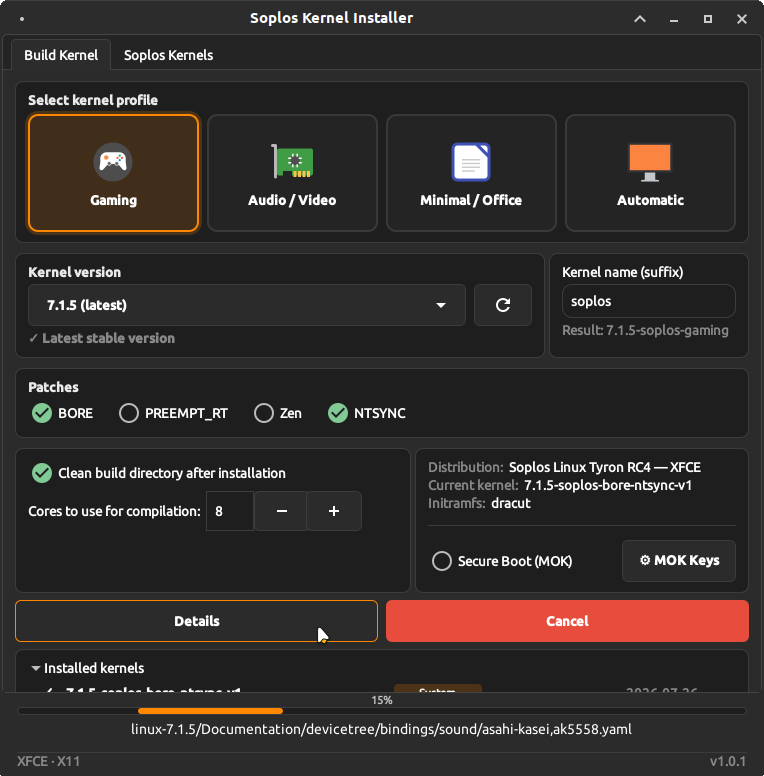
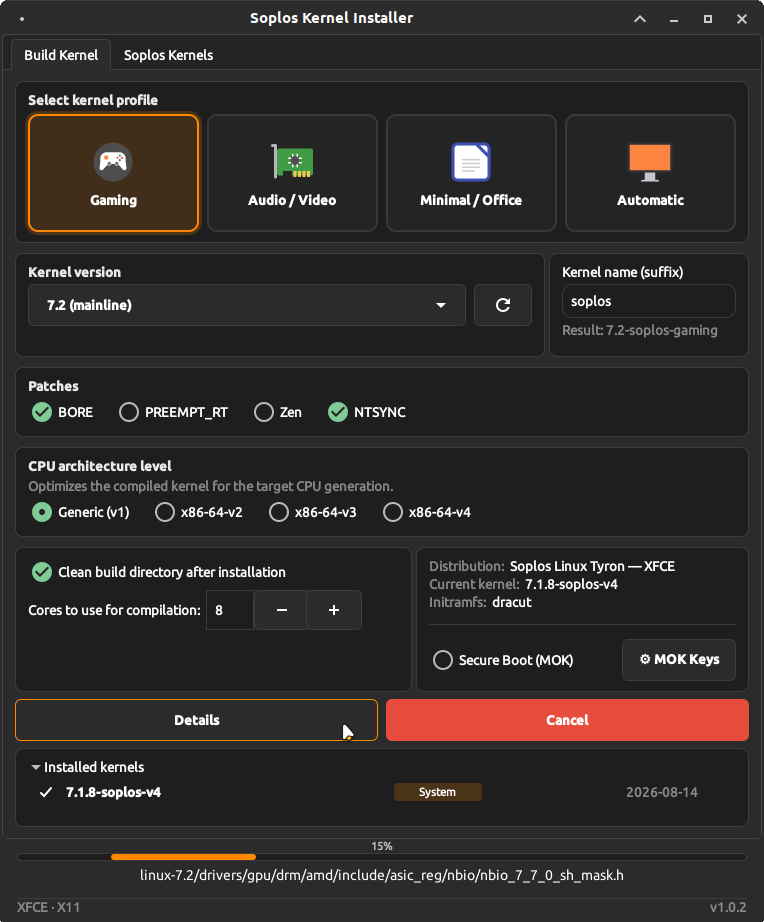
Update kernel installer screenshots, translations, and release pages

diff --git a/js/lang/lang-wiki-ru.js b/js/lang/lang-wiki-ru.js
@@ -5183,6 +5183,15 @@ Object.assign(window.LANG_RU, {
     "ki-rel-hero-title": "Soplos Kernel Installer",
     "ki-rel-hero-subtitle": "Компилятор пользовательских ядер Linux и установщик предсобранных ядер для Soplos Linux — компилируйте собственное ядро с патчами BORE, Zen, NTSYNC и PREEMPT_RT или устанавливайте готовые ядра Soplos из официального репозитория.",
 
+    "ki-rel-102r2-title": "1.0.2-2 — Август 2026",
+    "ki-rel-102r2-subtitle": "Селектор march расширен на все профили; выбор ядер и возобновление добавлены в пакетную сборку Stock; уровень march теперь отображается в имени ядра для профилей не-Stock; исправлена подпись кнопки пакетной сборки.",
+    "ki-rel-102r2-added-li1": "<strong>Селектор march (psABI x86-64) доступен для всех профилей:</strong> сборки Gaming, Audio/Video, Minimal/Office и Automatic теперь тоже могут выбирать V1–V4, вместо того чтобы всегда собирать с настройками компилятора по умолчанию.",
+    "ki-rel-102r2-added-li2": "<strong>Выбор ядер для пакетной сборки Stock:</strong> диалог «Выбрать ядра...» перечисляет все 26 задач очереди выпуска с флажками, вместо того чтобы всегда собирать всё или ничего.",
+    "ki-rel-102r2-added-li3": "<strong>Возобновление для пакетной сборки Stock:</strong> флажок пропускает любое ядро, метапакет <code>.deb</code> которого уже существует в папке назначения, чтобы прерванная на полпути очередь могла продолжить с того места, где остановилась, вместо того чтобы перестраивать всё с V1.",
+    "ki-rel-102r2-fixed-li1": "<strong>Селектор march никогда не появлялся для профиля по умолчанию при запуске:</strong> первая радиокнопка <code>ProfileSelector</code> уже имеет <code>active=True</code> при создании группы, поэтому её собственный вызов <code>set_active(True)</code> был no-op и никогда не испускал <code>toggled</code> — <code>profile-changed</code> (и всё, что его слушает, включая видимость селектора march) срабатывало только когда пользователь вручную переключал профили, но никогда для профиля, отображаемого при запуске. Теперь явно синхронизируется один раз после построения окна.",
+    "ki-rel-102r2-fixed-li2": "<strong>Сборка V3/V4 вне режима Stock выглядела идентично сборке V1:</strong> селектор march применялся к сборке, но никогда не отражался в имени ядра для профилей не-Stock. Уровень march теперь добавляется к имени (и его предварительному просмотру в реальном времени), если он не является v1 по умолчанию.",
+    "ki-rel-102r2-fixed-li3": "<strong>Кнопка «Собрать все 26 ядер» пакетной сборки сохраняла подпись после сужения выбора:</strong> всегда показывала «26» вне зависимости от того, сколько ядер было выбрано. Теперь показывает «Собрать N выбранных ядер» и говорит «все 26» только когда выбраны все задачи.",
+
     "ki-rel-102r1-title": "1.0.2-1 — Август 2026",
     "ki-rel-102r1-subtitle": "Исправление сбоя сборки NVIDIA DKMS на ядре 7.2+: <code>nvidia/os-interface.c</code> вызывает <code>strncpy()</code> без включения <code>&lt;linux/string.h&gt;</code> — транзитивное включение, исчезнувшее в ядре 7.2. Недостающий заголовок теперь автоматически патчится вместе с существующим fix'ом блокировки VMA.",
     "ki-rel-102r1-fixed-li1": "<strong>Сбой сборки NVIDIA DKMS на ядре 7.2+:</strong> <code>nvidia/os-interface.c</code> вызывает <code>strncpy()</code> без включения <code>&lt;linux/string.h&gt;</code>, полагаясь на то, что другой заголовочный файл ядра транзитивно предоставит объявление. Это транзитивное включение исчезло начиная с ядра 7.2, а GCC рассматривает неявное объявление функции как неисправимую ошибку, поэтому сборки DKMS завершались полным отказом (<code>implicit declaration of function 'strncpy'</code>). Был добавлен новый встроенный патч совместимости (<code>NV_STRING_H_PATCH</code>), добавляющий недостающий заголовок, применяемый автоматически вместе с существующим fix'ом блокировки VMA — тот же механизм, тот же guard идемпотентности, независимая проблема (другой файл, другой API, другая граница ядра). Отражено в автономном репозитории <code>nvidia-patches</code> как Fix 4.",

diff --git a/js/lang/lang-wiki-fr.js b/js/lang/lang-wiki-fr.js
@@ -5173,6 +5173,15 @@ Object.assign(window.LANG_FR, {
     "ki-rel-hero-title": "Soplos Kernel Installer",
     "ki-rel-hero-subtitle": "Compilateur de noyaux Linux personnalisés et installateur de noyaux précompilés pour Soplos Linux — compilez votre propre noyau avec les patches BORE, Zen, NTSYNC et PREEMPT_RT, ou installez des noyaux Soplos prêts à l'emploi depuis le dépôt officiel.",
 
+    "ki-rel-102r2-title": "1.0.2-2 — Août 2026",
+    "ki-rel-102r2-subtitle": "Sélecteur march étendu à tous les profils ; sélection des noyaux et reprise ajoutées à la compilation par lot Stock ; le niveau march est désormais reflété dans le nom du noyau pour les profils non-Stock ; libellé du bouton de lot corrigé.",
+    "ki-rel-102r2-added-li1": "<strong>Sélecteur march (psABI x86-64) disponible pour tous les profils :</strong> les compilations Gaming, Audio/Vidéo, Minimal/Bureau et Automatique peuvent désormais choisir V1–V4, au lieu de toujours compiler avec la valeur par défaut du compilateur.",
+    "ki-rel-102r2-added-li2": "<strong>Sélection des noyaux pour la compilation par lot Stock :</strong> une boîte de dialogue «&nbsp;Sélectionner les noyaux...&nbsp;» liste les 26 tâches de la file de publication avec des cases à cocher, au lieu de toujours tout compiler ou rien.",
+    "ki-rel-102r2-added-li3": "<strong>Reprise pour la compilation par lot Stock :</strong> une case à cocher ignore tout noyau dont le métapaquet <code>.deb</code> existe déjà dans le dossier de destination, de sorte qu'une file interrompue en cours peut reprendre là où elle s'est arrêtée au lieu de tout recompiler depuis V1.",
+    "ki-rel-102r2-fixed-li1": "<strong>Le sélecteur march n'apparaissait jamais pour le profil par défaut au démarrage :</strong> le premier bouton radio de <code>ProfileSelector</code> est déjà <code>active=True</code> à la création du groupe, donc son propre appel à <code>set_active(True)</code> était un no-op et n'émettait jamais <code>toggled</code> — <code>profile-changed</code> (et tout ce qui l'écoute, visibilité du sélecteur march incluse) ne se déclenchait que lorsque l'utilisateur changeait de profil manuellement, jamais pour le profil affiché au lancement. Synchronisé explicitement une fois après la construction de la fenêtre.",
+    "ki-rel-102r2-fixed-li2": "<strong>Une compilation V3/V4 hors mode Stock était identique à une V1 :</strong> le sélecteur march était appliqué à la compilation mais n'était jamais répercuté dans le nom du noyau pour les profils non-Stock. Le niveau march est maintenant ajouté au nom (et à son aperçu en direct) quand il n'est pas le v1 par défaut.",
+    "ki-rel-102r2-fixed-li3": "<strong>Le bouton «&nbsp;Compiler les 26 noyaux&nbsp;» du lot conservait son libellé après réduction de la sélection :</strong> il affichait toujours «&nbsp;26&nbsp;» quel que soit le nombre de noyaux cochés. Il affiche désormais «&nbsp;Compiler N noyaux sélectionnés&nbsp;» et ne dit «&nbsp;tous les 26&nbsp;» que lorsque tous les travaux sont sélectionnés.",
+
     "ki-rel-102r1-title": "1.0.2-1 — Août 2026",
     "ki-rel-102r1-subtitle": "Correction de l'échec de compilation NVIDIA DKMS sur le noyau 7.2+ : <code>nvidia/os-interface.c</code> appelle <code>strncpy()</code> sans inclure <code>&lt;linux/string.h&gt;</code> — une inclusion transitive disparue sur le noyau 7.2. L'en-tête manquant est maintenant appliqué automatiquement en même temps que le correctif de verrouillage VMA existant.",
     "ki-rel-102r1-fixed-li1": "<strong>Échec de compilation NVIDIA DKMS sur le noyau 7.2+ :</strong> <code>nvidia/os-interface.c</code> appelle <code>strncpy()</code> sans inclure <code>&lt;linux/string.h&gt;</code>, en comptant sur un autre en-tête du noyau pour fournir la déclaration transitivement. Cette inclusion transitive a disparu à partir du noyau 7.2, et GCC traite une déclaration de fonction implicite comme une erreur définitive, si bien que les compilations DKMS échouaient complètement (<code>implicit declaration of function 'strncpy'</code>). Un nouveau patch de compatibilité embarqué (<code>NV_STRING_H_PATCH</code>) ajoutant l'en-tête manquant a été ajouté, appliqué automatiquement aux côtés du correctif de verrouillage VMA existant — même mécanisme, même garde d'idempotence, problème différent (fichier différent, API différente, limite de noyau différente). Reproduit dans le dépôt standalone <code>nvidia-patches</code> sous le Fix 4.",

diff --git a/js/lang/lang-wiki-es.js b/js/lang/lang-wiki-es.js
@@ -5184,6 +5184,15 @@ Object.assign(window.LANG_ES, {
     "ki-rel-hero-title": "Soplos Kernel Installer",
     "ki-rel-hero-subtitle": "Compilador de kernels Linux personalizados e instalador de kernels precompilados para Soplos Linux — compila tu propio kernel con parches BORE, Zen, NTSYNC y PREEMPT_RT, o instala kernels Soplos listos para usar desde el repositorio oficial.",
 
+    "ki-rel-102r2-title": "1.0.2-2 — Agosto 2026",
+    "ki-rel-102r2-subtitle": "Selector de march extendido a todos los perfiles; selección de kernels y reanudación añadidas a la compilación por lotes de Stock; el nivel de march ahora se refleja en el nombre del kernel para perfiles que no son Stock; etiqueta del botón de lote corregida.",
+    "ki-rel-102r2-added-li1": "<strong>Selector de march (psABI x86-64) disponible para todos los perfiles:</strong> Las compilaciones de Gaming, Audio/Vídeo, Minimal/Office y Automático ahora también pueden elegir V1–V4, en lugar de compilar siempre con el valor predeterminado del compilador.",
+    "ki-rel-102r2-added-li2": "<strong>Selección de kernels para la compilación por lotes de Stock:</strong> un diálogo «Seleccionar kernels...» muestra los 26 trabajos de la cola de lanzamiento con casillas de verificación, en lugar de compilar siempre todos o ninguno.",
+    "ki-rel-102r2-added-li3": "<strong>Reanudación para la compilación por lotes de Stock:</strong> una casilla omite cualquier kernel cuyo metapaquete <code>.deb</code> ya exista en la carpeta de destino, de modo que una cola que falló a mitad puede continuar desde donde se detuvo en lugar de recompilar todo desde V1.",
+    "ki-rel-102r2-fixed-li1": "<strong>El selector de march nunca aparecía para el perfil predeterminado al arrancar:</strong> el primer botón de radio de <code>ProfileSelector</code> ya tiene <code>active=True</code> cuando se crea el grupo, por lo que su propia llamada a <code>set_active(True)</code> era un no-op y nunca emitía <code>toggled</code> — <code>profile-changed</code> (y todo lo que lo escucha, incluida la visibilidad del selector de march) solo se disparaba cuando el usuario cambiaba de perfil manualmente, nunca para el perfil mostrado al arrancar. Se sincroniza explícitamente una vez después de que la ventana se construye.",
+    "ki-rel-102r2-fixed-li2": "<strong>Una compilación V3/V4 fuera del modo Stock era idéntica a una V1:</strong> el selector de march se aplicaba a la compilación pero nunca se reflejaba en el nombre del kernel para perfiles que no son Stock. El nivel de march ahora se añade al nombre (y a su vista previa en vivo) cuando no es el v1 predeterminado.",
+    "ki-rel-102r2-fixed-li3": "<strong>El botón «Compilar los 26 kernels» del lote mantenía su etiqueta tras reducir la selección:</strong> siempre mostraba «26» independientemente de cuántos kernels estuvieran marcados. Ahora muestra «Compilar N kernels seleccionados» y solo dice «todos los 26» cuando se seleccionan todos los trabajos.",
+
     "ki-rel-102r1-title": "1.0.2-1 — Agosto 2026",
     "ki-rel-102r1-subtitle": "Corrección del fallo de compilación de NVIDIA DKMS en el kernel 7.2+: <code>nvidia/os-interface.c</code> llama a <code>strncpy()</code> sin incluir <code>&lt;linux/string.h&gt;</code> — una inclusión transitiva que desapareció en el kernel 7.2. La cabecera que faltaba se parchea ahora automáticamente junto al fix existente de bloqueo de VMA.",
     "ki-rel-102r1-fixed-li1": "<strong>Fallo de compilación de NVIDIA DKMS en el kernel 7.2+:</strong> <code>nvidia/os-interface.c</code> llama a <code>strncpy()</code> sin incluir <code>&lt;linux/string.h&gt;</code>, dependiendo de que alguna otra cabecera del kernel proporcionara la declaración transitivamente. Esa inclusión transitiva desapareció a partir del kernel 7.2 y GCC trata una declaración implícita de función como un error definitivo, por lo que las compilaciones de DKMS fallaban por completo (<code>implicit declaration of function 'strncpy'</code>). Se ha añadido un nuevo parche de compatibilidad embebido (<code>NV_STRING_H_PATCH</code>) que agrega la cabecera que faltaba, aplicado automáticamente junto al fix existente de bloqueo de VMA — mismo mecanismo, mismo guard de idempotencia, problema diferente (archivo diferente, API diferente, límite de kernel diferente). Reflejado en el repositorio independiente <code>nvidia-patches</code> como Fix 4.",

diff --git a/js/lang/lang-wiki-de.js b/js/lang/lang-wiki-de.js
@@ -5181,6 +5181,15 @@ Object.assign(window.LANG_DE, {
     "ki-rel-hero-title": "Soplos Kernel Installer",
     "ki-rel-hero-subtitle": "Benutzerdefinierter Linux-Kernel-Compiler und vorkompilierter Kernel-Installer für Soplos Linux — kompilieren Sie Ihren eigenen Kernel mit BORE-, Zen-, NTSYNC- und PREEMPT_RT-Patches oder installieren Sie gebrauchsfertige Soplos-Kernel aus dem offiziellen Repository.",
 
+    "ki-rel-102r2-title": "1.0.2-2 — August 2026",
+    "ki-rel-102r2-subtitle": "March-Selektor auf alle Profile erweitert; Kernelauswahl und Fortsetzung zum Stock-Batch-Build hinzugefügt; March-Level wird jetzt im Kernel-Namen für Nicht-Stock-Profile angezeigt; Beschriftung der Batch-Schaltfläche korrigiert.",
+    "ki-rel-102r2-added-li1": "<strong>March-Selektor (x86-64-psABI) für alle Profile verfügbar:</strong> Gaming-, Audio/Video-, Minimal/Office- und Automatik-Builds können jetzt ebenfalls V1–V4 wählen, anstatt immer mit dem Compiler-Standard zu bauen.",
+    "ki-rel-102r2-added-li2": "<strong>Kernelauswahl für den Stock-Batch-Build:</strong> ein Dialog «Kernel auswählen...» listet alle 26 Aufgaben der Release-Warteschlange mit Kontrollkästchen auf, anstatt immer alle oder keine zu bauen.",
+    "ki-rel-102r2-added-li3": "<strong>Fortsetzung für den Stock-Batch-Build:</strong> ein Kontrollkästchen überspringt jeden Kernel, dessen Metapaket-<code>.deb</code> bereits im Zielordner vorhanden ist, sodass eine halb abgebrochene Warteschlange dort weitermachen kann, wo sie aufgehört hat, anstatt alles ab V1 neu zu bauen.",
+    "ki-rel-102r2-fixed-li1": "<strong>Der March-Selektor erschien beim Start nie für das Standard-Profil:</strong> der erste Radio-Button von <code>ProfileSelector</code> ist beim Erstellen der Gruppe bereits <code>active=True</code>, sodass der eigene <code>set_active(True)</code>-Aufruf ein No-op war und nie <code>toggled</code> emittierte — <code>profile-changed</code> (und alles, was darauf hört, einschließlich der Sichtbarkeit des March-Selektors) wurde nur ausgelöst, wenn der Nutzer das Profil manuell wechselte, nie für das beim Start angezeigte Profil. Wird jetzt einmal explizit nach dem Aufbau des Fensters synchronisiert.",
+    "ki-rel-102r2-fixed-li2": "<strong>Ein V3/V4-Build außerhalb des Stock-Modus war mit einem V1-Build identisch:</strong> der March-Selektor wurde auf den Build angewendet, aber nie im Kernel-Namen für Nicht-Stock-Profile widergespiegelt. Das March-Level wird jetzt an den Namen (und dessen Live-Vorschau) angehängt, wenn es nicht das Standard-v1 ist.",
+    "ki-rel-102r2-fixed-li3": "<strong>Der Batch-Button «Alle 26 Kernel bauen» behielt seine Beschriftung nach dem Einschränken der Auswahl:</strong> er zeigte immer «26», unabhängig davon, wie viele Kernel tatsächlich ausgewählt waren. Zeigt jetzt «N ausgewählte Kernel bauen» und sagt nur «alle 26», wenn alle Aufgaben ausgewählt sind.",
+
     "ki-rel-102r1-title": "1.0.2-1 — August 2026",
     "ki-rel-102r1-subtitle": "Behebung des NVIDIA-DKMS-Kompilierungsfehlers auf Kernel 7.2+: <code>nvidia/os-interface.c</code> ruft <code>strncpy()</code> ohne Einbindung von <code>&lt;linux/string.h&gt;</code> auf — ein transitiver Include, der auf Kernel 7.2 verschwunden ist. Der fehlende Header wird nun automatisch zusammen mit dem bestehenden VMA-Locking-Fix eingespielt.",
     "ki-rel-102r1-fixed-li1": "<strong>NVIDIA-DKMS-Kompilierungsfehler auf Kernel 7.2+:</strong> <code>nvidia/os-interface.c</code> ruft <code>strncpy()</code> ohne Einbindung von <code>&lt;linux/string.h&gt;</code> auf und verlässt sich darauf, dass ein anderer Kernel-Header die Deklaration transitiv bereitstellt. Dieser transitive Include verschwand ab Kernel 7.2, und GCC behandelt eine implizite Funktionsdeklaration als harten Fehler, sodass DKMS-Builds vollständig scheiterten (<code>implicit declaration of function 'strncpy'</code>). Ein neuer eingebetteter Kompatibilitätspatch (<code>NV_STRING_H_PATCH</code>), der den fehlenden Header hinzufügt, wurde eingefügt und wird automatisch zusammen mit dem bestehenden VMA-Locking-Fix angewendet — gleicher Mechanismus, gleicher Idempotenz-Guard, unabhängiges Problem (andere Datei, andere API, andere Kernel-Grenze). Im eigenständigen <code>nvidia-patches</code>-Repository als Fix 4 gespiegelt.",

diff --git a/wiki/releases/soplos-kernel-installer/index.html b/wiki/releases/soplos-kernel-installer/index.html
@@ -127,6 +127,7 @@
                     <aside class="toc">
                         <h3 id="rel-toc-title">Versions</h3>
                         <ul>
+                            <li><a href="#v102r2" class="toc-link">1.0.2-2 <span class="toc-date">— 2026-08-18</span></a></li>
                             <li><a href="#v102r1" class="toc-link">1.0.2-1 <span class="toc-date">— 2026-08-17</span></a></li>
                             <li><a href="#v102" class="toc-link">1.0.2 <span class="toc-date">— 2026-08-17</span></a></li>
                             <li><a href="#v101r9" class="toc-link">1.0.1-9 <span class="toc-date">— 2026-08-13</span></a></li>
@@ -148,6 +149,32 @@
                     </aside>
 
                     <article class="main-content">
+
+                        <!-- 1.0.2-2 -->
+                        <section id="v102r2" class="content-section">
+                            <h2><i class="fas fa-tag"></i> <span id="ki-rel-102r2-title">1.0.2-2 — August 2026</span></h2>
+                            <p id="ki-rel-102r2-subtitle" class="lead">March selector extended to all profiles; kernel selection and resume added to the Stock batch build; march level now reflected in the kernel name for non-Stock profiles; batch button label fixed.</p>
+
+                            <div class="subsection-header">
+                                <h3><i class="fas fa-plus-circle"></i> <span data-i18n="rel-label-added">Added</span></h3>
+                                <div class="accent-hr"></div>
+                            </div>
+                            <ul>
+                                <li id="ki-rel-102r2-added-li1"><strong>March (x86-64 psABI) selector available for every profile:</strong> Gaming, Audio/Video, Minimal/Office and Automatic builds can now pick V1–V4 too, instead of always building at the compiler default.</li>
+                                <li id="ki-rel-102r2-added-li2"><strong>Kernel selection for the Stock batch build:</strong> a "Select kernels..." dialog lists all 26 jobs of the release queue with checkboxes, instead of always building all-or-nothing.</li>
+                                <li id="ki-rel-102r2-added-li3"><strong>Resume for the Stock batch build:</strong> a checkbox skips any kernel whose metapackage <code>.deb</code> already exists in the destination folder, so a queue that failed partway through can continue from where it stopped instead of rebuilding everything from V1.</li>
+                            </ul>
+
+                            <div class="subsection-header">
+                                <h3><i class="fas fa-wrench"></i> <span data-i18n="rel-label-fixed">Fixed</span></h3>
+                                <div class="accent-hr"></div>
+                            </div>
+                            <ul>
+                                <li id="ki-rel-102r2-fixed-li1"><strong>The march selector never appeared for the default profile at startup:</strong> <code>ProfileSelector</code>'s first radio button is already <code>active=True</code> when the group is created, so its own <code>set_active(True)</code> call was a no-op and never emitted <code>toggled</code> — <code>profile-changed</code> (and everything that listens for it, march selector visibility included) only ever fired when the user switched profiles by hand, never for the profile shown on launch. Synced explicitly once after the window is built.</li>
+                                <li id="ki-rel-102r2-fixed-li2"><strong>A V3/V4 build outside Stock mode looked identical to a V1 one:</strong> the march selector applied to the build but was never reflected in the kernel's name for non-Stock profiles. The march level is now appended to the name (and its live preview) whenever it isn't the default v1.</li>
+                                <li id="ki-rel-102r2-fixed-li3"><strong>The batch "Build all 26 kernels" button kept its label after narrowing the selection:</strong> it always said "26" regardless of how many kernels were actually checked. Now reads "Build N selected kernels" and only says "all 26" when every job is selected.</li>
+                            </ul>
+                        </section>
 
                         <!-- 1.0.2-1 -->
                         <section id="v102r1" class="content-section">

diff --git a/js/lang/lang-wiki-it.js b/js/lang/lang-wiki-it.js
@@ -5178,6 +5178,15 @@ Object.assign(window.LANG_IT, {
     "ki-rel-hero-title": "Soplos Kernel Installer",
     "ki-rel-hero-subtitle": "Compilatore di kernel Linux personalizzati e installatore di kernel precompilati per Soplos Linux — compila il tuo kernel con patch BORE, Zen, NTSYNC e PREEMPT_RT, o installa kernel Soplos pronti all'uso dal repository ufficiale.",
 
+    "ki-rel-102r2-title": "1.0.2-2 — Agosto 2026",
+    "ki-rel-102r2-subtitle": "Selettore march esteso a tutti i profili; selezione dei kernel e ripresa aggiunte alla compilazione batch Stock; il livello march è ora riflesso nel nome del kernel per i profili non-Stock; etichetta del pulsante batch corretta.",
+    "ki-rel-102r2-added-li1": "<strong>Selettore march (psABI x86-64) disponibile per tutti i profili:</strong> le compilazioni Gaming, Audio/Video, Minimal/Ufficio e Automatico possono ora scegliere anche V1–V4, invece di compilare sempre con il valore predefinito del compilatore.",
+    "ki-rel-102r2-added-li2": "<strong>Selezione dei kernel per la compilazione batch Stock:</strong> un dialogo «Seleziona kernel...» elenca tutti i 26 lavori della coda di rilascio con caselle di controllo, invece di compilare sempre tutto o niente.",
+    "ki-rel-102r2-added-li3": "<strong>Ripresa per la compilazione batch Stock:</strong> una casella di controllo salta qualsiasi kernel il cui metapacchetto <code>.deb</code> esiste già nella cartella di destinazione, in modo che una coda interrotta a metà possa continuare da dove si era fermata invece di ricompilare tutto da V1.",
+    "ki-rel-102r2-fixed-li1": "<strong>Il selettore march non appariva mai per il profilo predefinito all'avvio:</strong> il primo pulsante radio di <code>ProfileSelector</code> è già <code>active=True</code> quando il gruppo viene creato, quindi la sua stessa chiamata a <code>set_active(True)</code> era un no-op e non emetteva mai <code>toggled</code> — <code>profile-changed</code> (e tutto ciò che lo ascolta, inclusa la visibilità del selettore march) si attivava solo quando l'utente cambiava profilo manualmente, mai per il profilo mostrato al lancio. Sincronizzato esplicitamente una volta dopo la costruzione della finestra.",
+    "ki-rel-102r2-fixed-li2": "<strong>Una compilazione V3/V4 fuori dalla modalità Stock era identica a una V1:</strong> il selettore march veniva applicato alla compilazione ma non si rifletteva mai nel nome del kernel per i profili non-Stock. Il livello march viene ora aggiunto al nome (e alla sua anteprima in diretta) quando non è il v1 predefinito.",
+    "ki-rel-102r2-fixed-li3": "<strong>Il pulsante «Compila tutti i 26 kernel» del batch manteneva la sua etichetta dopo aver ridotto la selezione:</strong> mostrava sempre «26» indipendentemente da quanti kernel fossero effettivamente selezionati. Ora mostra «Compila N kernel selezionati» e dice «tutti i 26» solo quando tutti i lavori sono selezionati.",
+
     "ki-rel-102r1-title": "1.0.2-1 — Agosto 2026",
     "ki-rel-102r1-subtitle": "Correzione del fallimento di compilazione di NVIDIA DKMS sul kernel 7.2+: <code>nvidia/os-interface.c</code> chiama <code>strncpy()</code> senza includere <code>&lt;linux/string.h&gt;</code> — un include transitivo scomparso sul kernel 7.2. L'header mancante viene ora applicato automaticamente insieme al fix esistente di VMA locking.",
     "ki-rel-102r1-fixed-li1": "<strong>Fallimento di compilazione di NVIDIA DKMS sul kernel 7.2+:</strong> <code>nvidia/os-interface.c</code> chiama <code>strncpy()</code> senza includere <code>&lt;linux/string.h&gt;</code>, affidandosi a un altro header del kernel per fornire la dichiarazione transitivamente. Quell'include transitivo è scomparso a partire dal kernel 7.2 e GCC tratta una dichiarazione implicita di funzione come un errore definitivo, quindi le build DKMS fallivano completamente (<code>implicit declaration of function 'strncpy'</code>). È stato aggiunto un nuovo patch di compatibilità incorporato (<code>NV_STRING_H_PATCH</code>) che aggiunge l'header mancante, applicato automaticamente insieme al fix esistente di VMA locking — stesso meccanismo, stesso guard di idempotenza, problema diverso (file diverso, API diversa, limite di kernel diverso). Specchiato nel repository standalone <code>nvidia-patches</code> come Fix 4.",

diff --git a/js/lang/lang-wiki-ro.js b/js/lang/lang-wiki-ro.js
@@ -5180,6 +5180,15 @@ Object.assign(window.LANG_RO, {
     "ki-rel-hero-title": "Soplos Kernel Installer",
     "ki-rel-hero-subtitle": "Compilator de kerneluri Linux personalizate și instalator de kerneluri precompilate pentru Soplos Linux — compilați propriul kernel cu patch-uri BORE, Zen, NTSYNC și PREEMPT_RT, sau instalați kerneluri Soplos gata de utilizat din depozitul oficial.",
 
+    "ki-rel-102r2-title": "1.0.2-2 — August 2026",
+    "ki-rel-102r2-subtitle": "Selectorul march extins la toate profilurile; selecția kernelurilor și reluarea adăugate la compilarea în lot Stock; nivelul march este acum reflectat în numele kernelului pentru profilurile non-Stock; eticheta butonului de lot corectată.",
+    "ki-rel-102r2-added-li1": "<strong>Selectorul march (psABI x86-64) disponibil pentru toate profilurile:</strong> compilările Gaming, Audio/Video, Minimal/Birou și Automat pot acum alege și V1–V4, în loc să compileze întotdeauna cu valoarea implicită a compilatorului.",
+    "ki-rel-102r2-added-li2": "<strong>Selecția kernelurilor pentru compilarea în lot Stock:</strong> un dialog «Selectează kerneluri...» listează toate cele 26 de sarcini din coada de lansare cu casete de bifare, în loc să compileze întotdeauna totul sau nimic.",
+    "ki-rel-102r2-added-li3": "<strong>Reluarea pentru compilarea în lot Stock:</strong> o casetă de bifare sare orice kernel al cărui metapachet <code>.deb</code> există deja în folderul de destinație, astfel încât o coadă întreruptă la jumătate poate continua de unde s-a oprit în loc să recompileze totul de la V1.",
+    "ki-rel-102r2-fixed-li1": "<strong>Selectorul march nu apărea niciodată pentru profilul implicit la pornire:</strong> primul buton radio al <code>ProfileSelector</code> este deja <code>active=True</code> când grupul este creat, deci propriul apel <code>set_active(True)</code> era un no-op și nu emitea niciodată <code>toggled</code> — <code>profile-changed</code> (și tot ce îl ascultă, inclusiv vizibilitatea selectorului march) se declanșa numai când utilizatorul schimba profilurile manual, niciodată pentru profilul afișat la lansare. Sincronizat explicit o dată după construirea ferestrei.",
+    "ki-rel-102r2-fixed-li2": "<strong>O compilare V3/V4 în afara modului Stock arăta identic cu una V1:</strong> selectorul march se aplica compilării dar nu se reflecta niciodată în numele kernelului pentru profilurile non-Stock. Nivelul march este acum adăugat la nume (și la previzualizarea sa în direct) când nu este v1-ul implicit.",
+    "ki-rel-102r2-fixed-li3": "<strong>Butonul «Compilează toate cele 26 de kerneluri» al lotului își păstra eticheta după restrângerea selecției:</strong> afișa întotdeauna «26» indiferent de câte kerneluri erau efectiv bifate. Acum afișează «Compilează N kerneluri selectate» și spune «toate cele 26» doar când toate sarcinile sunt selectate.",
+
     "ki-rel-102r1-title": "1.0.2-1 — August 2026",
     "ki-rel-102r1-subtitle": "Corectarea eșecului de compilare NVIDIA DKMS pe kernelul 7.2+: <code>nvidia/os-interface.c</code> apelează <code>strncpy()</code> fără a include <code>&lt;linux/string.h&gt;</code> — o includere tranzitivă dispărută pe kernelul 7.2. Header-ul lipsă este acum aplicat automat alături de fix-ul existent de blocare VMA.",
     "ki-rel-102r1-fixed-li1": "<strong>Eșec de compilare NVIDIA DKMS pe kernelul 7.2+:</strong> <code>nvidia/os-interface.c</code> apelează <code>strncpy()</code> fără a include <code>&lt;linux/string.h&gt;</code>, bazându-se pe un alt header de kernel pentru a furniza declarația tranzitiv. Acea includere tranzitivă a dispărut începând cu kernelul 7.2, iar GCC tratează o declarație implicită de funcție ca o eroare definitivă, deci build-urile DKMS eșuau complet (<code>implicit declaration of function 'strncpy'</code>). A fost adăugat un nou patch de compatibilitate incorporat (<code>NV_STRING_H_PATCH</code>) care adaugă header-ul lipsă, aplicat automat alături de fix-ul existent de blocare VMA — același mecanism, același guard de idempotență, problemă diferită (fișier diferit, API diferită, limită de kernel diferită). Oglindit în repository-ul standalone <code>nvidia-patches</code> ca Fix 4.",

diff --git a/js/lang/lang-wiki-pt.js b/js/lang/lang-wiki-pt.js
@@ -5173,6 +5173,15 @@ Object.assign(window.LANG_PT, {
     "ki-rel-hero-title": "Soplos Kernel Installer",
     "ki-rel-hero-subtitle": "Compilador de kernels Linux personalizados e instalador de kernels pré-compilados para Soplos Linux — compile o seu próprio kernel com patches BORE, Zen, NTSYNC e PREEMPT_RT, ou instale kernels Soplos prontos a usar a partir do repositório oficial.",
 
+    "ki-rel-102r2-title": "1.0.2-2 — Agosto 2026",
+    "ki-rel-102r2-subtitle": "Seletor march estendido a todos os perfis; seleção de kernels e retoma adicionadas à compilação em lote Stock; o nível march é agora refletido no nome do kernel para perfis não-Stock; etiqueta do botão de lote corrigida.",
+    "ki-rel-102r2-added-li1": "<strong>Seletor march (psABI x86-64) disponível para todos os perfis:</strong> as compilações Gaming, Áudio/Vídeo, Minimal/Escritório e Automático podem agora escolher V1–V4, em vez de compilar sempre com o valor predefinido do compilador.",
+    "ki-rel-102r2-added-li2": "<strong>Seleção de kernels para a compilação em lote Stock:</strong> um diálogo «Selecionar kernels...» lista os 26 trabalhos da fila de lançamento com caixas de verificação, em vez de compilar sempre tudo ou nada.",
+    "ki-rel-102r2-added-li3": "<strong>Retoma para a compilação em lote Stock:</strong> uma caixa de verificação salta qualquer kernel cujo metapacote <code>.deb</code> já exista na pasta de destino, para que uma fila que falhou a meio possa continuar de onde parou em vez de recompilar tudo a partir de V1.",
+    "ki-rel-102r2-fixed-li1": "<strong>O seletor march nunca aparecia para o perfil predefinido no arranque:</strong> o primeiro botão de rádio de <code>ProfileSelector</code> já tem <code>active=True</code> quando o grupo é criado, pelo que a sua própria chamada a <code>set_active(True)</code> era um no-op e nunca emitia <code>toggled</code> — <code>profile-changed</code> (e tudo o que o escuta, incluindo a visibilidade do seletor march) só se disparava quando o utilizador mudava de perfil manualmente, nunca para o perfil mostrado no arranque. Sincronizado explicitamente uma vez após a janela ser construída.",
+    "ki-rel-102r2-fixed-li2": "<strong>Uma compilação V3/V4 fora do modo Stock era idêntica a uma V1:</strong> o seletor march aplicava-se à compilação mas nunca era refletido no nome do kernel para perfis não-Stock. O nível march é agora acrescentado ao nome (e à sua pré-visualização em direto) quando não é o v1 predefinido.",
+    "ki-rel-102r2-fixed-li3": "<strong>O botão «Compilar os 26 kernels» do lote mantinha a sua etiqueta após reduzir a seleção:</strong> mostrava sempre «26» independentemente de quantos kernels estavam marcados. Agora mostra «Compilar N kernels selecionados» e só diz «todos os 26» quando todos os trabalhos estão selecionados.",
+
     "ki-rel-102r1-title": "1.0.2-1 — Agosto 2026",
     "ki-rel-102r1-subtitle": "Correção da falha de compilação do NVIDIA DKMS no kernel 7.2+: <code>nvidia/os-interface.c</code> chama <code>strncpy()</code> sem incluir <code>&lt;linux/string.h&gt;</code> — uma inclusão transitiva que desapareceu no kernel 7.2. O cabeçalho em falta é agora corrigido automaticamente juntamente com o fix existente de bloqueio de VMA.",
     "ki-rel-102r1-fixed-li1": "<strong>Falha de compilação do NVIDIA DKMS no kernel 7.2+:</strong> <code>nvidia/os-interface.c</code> chama <code>strncpy()</code> sem incluir <code>&lt;linux/string.h&gt;</code>, contando com que outro cabeçalho do kernel fornecesse a declaração transitivamente. Essa inclusão transitiva desapareceu a partir do kernel 7.2 e o GCC trata uma declaração implícita de função como um erro definitivo, pelo que as compilações de DKMS falhavam por completo (<code>implicit declaration of function 'strncpy'</code>). Foi adicionado um novo patch de compatibilidade embutido (<code>NV_STRING_H_PATCH</code>) que acrescenta o cabeçalho em falta, aplicado automaticamente juntamente com o fix existente de bloqueio de VMA — mesmo mecanismo, mesmo guard de idempotência, problema diferente (ficheiro diferente, API diferente, limite de kernel diferente). Reproduzido no repositório standalone <code>nvidia-patches</code> como Fix 4.",

diff --git a/js/lang/lang-wiki-en.js b/js/lang/lang-wiki-en.js
@@ -5981,6 +5981,15 @@ Object.assign(window.LANG_EN, {
   "ki-rel-hero-title": "Soplos Kernel Installer",
   "ki-rel-hero-subtitle": "Custom Linux kernel builder and pre-built kernel installer for Soplos Linux — compile your own kernel with BORE, Zen, NTSYNC and PREEMPT_RT patches, or install ready-to-use Soplos kernels from the official repository.",
 
+  "ki-rel-102r2-title": "1.0.2-2 — August 2026",
+  "ki-rel-102r2-subtitle": "March selector extended to all profiles; kernel selection and resume added to the Stock batch build; march level now reflected in the kernel name for non-Stock profiles; batch button label fixed.",
+  "ki-rel-102r2-added-li1": "<strong>March (x86-64 psABI) selector available for every profile:</strong> Gaming, Audio/Video, Minimal/Office and Automatic builds can now pick V1–V4 too, instead of always building at the compiler default.",
+  "ki-rel-102r2-added-li2": "<strong>Kernel selection for the Stock batch build:</strong> a "Select kernels..." dialog lists all 26 jobs of the release queue with checkboxes, instead of always building all-or-nothing.",
+  "ki-rel-102r2-added-li3": "<strong>Resume for the Stock batch build:</strong> a checkbox skips any kernel whose metapackage <code>.deb</code> already exists in the destination folder, so a queue that failed partway through can continue from where it stopped instead of rebuilding everything from V1.",
+  "ki-rel-102r2-fixed-li1": "<strong>The march selector never appeared for the default profile at startup:</strong> <code>ProfileSelector</code>'s first radio button is already <code>active=True</code> when the group is created, so its own <code>set_active(True)</code> call was a no-op and never emitted <code>toggled</code> — <code>profile-changed</code> (and everything that listens for it, march selector visibility included) only ever fired when the user switched profiles by hand, never for the profile shown on launch. Synced explicitly once after the window is built.",
+  "ki-rel-102r2-fixed-li2": "<strong>A V3/V4 build outside Stock mode looked identical to a V1 one:</strong> the march selector applied to the build but was never reflected in the kernel's name for non-Stock profiles. The march level is now appended to the name (and its live preview) whenever it isn't the default v1.",
+  "ki-rel-102r2-fixed-li3": "<strong>The batch "Build all 26 kernels" button kept its label after narrowing the selection:</strong> it always said "26" regardless of how many kernels were actually checked. Now reads "Build N selected kernels" and only says "all 26" when every job is selected.",
+
   "ki-rel-102r1-title": "1.0.2-1 — August 2026",
   "ki-rel-102r1-subtitle": "NVIDIA DKMS build failure on kernel 7.2+ fixed: nvidia/os-interface.c calls strncpy() without including linux/string.h — a transitive include that disappeared on 7.2. The missing header is now patched in automatically alongside the existing VMA-locking fix.",
   "ki-rel-102r1-fixed-li1": "<strong>NVIDIA DKMS build failure on kernel 7.2+:</strong> <code>nvidia/os-interface.c</code> calls <code>strncpy()</code> without including <code>&lt;linux/string.h&gt;</code>, relying on some other kernel header to provide the declaration transitively. That transitive include disappeared starting with kernel 7.2, and GCC treats an implicit function declaration as a hard error, so DKMS builds failed outright (<code>implicit declaration of function 'strncpy'</code>). Added a new embedded compatibility patch (<code>NV_STRING_H_PATCH</code>) that adds the missing include, applied automatically alongside the existing VMA-locking fix — same mechanism, same idempotency guard, unrelated issue (different file, different API, different kernel boundary). Mirrored in the standalone <code>nvidia-patches</code> repo as Fix 4.",

diff --git a/wiki/releases/index.html b/wiki/releases/index.html
@@ -205,7 +205,7 @@
                             <h3>Soplos Kernel Installer</h3>
                             <p id="rel-idx-ki-desc">Graphical kernel builder with patch support (BORE, Zen, NTSYNC, RT)
                                 and one-click Soplos kernels.</p>
-                            <span class="release-version-badge">1.0.2-1</span>
+                            <span class="release-version-badge">1.0.2-2</span>
                         </div>
                         <span class="release-card-arrow"><i class="fas fa-chevron-right"></i></span>
                     </a>
